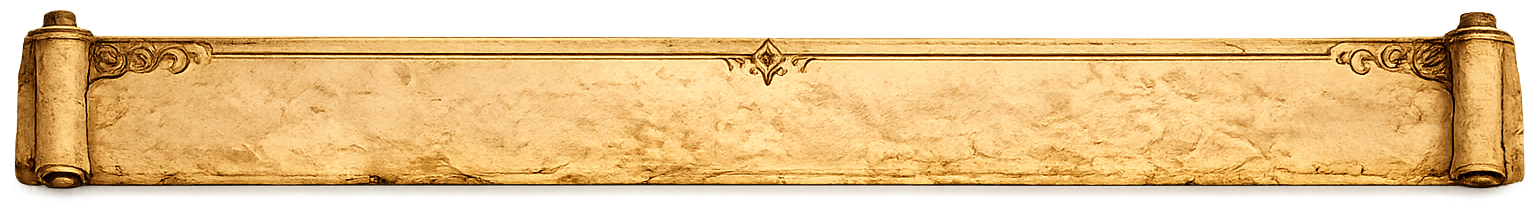
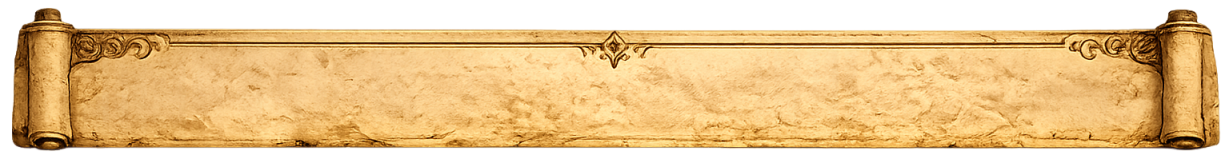
feat: add header, theme toggle, hero and card sections

Changed region(s): [[0.0, 0.8683, 0.9894, 0.9581], [0.2783, 0.1497, 0.371, 0.1796]]

diff --git a/src/components/SectionCards.vue b/src/components/SectionCards.vue
@@ -1,0 +1,131 @@
+<script setup lang="ts">
+</script>
+
+<template>
+  <section class="cards-section">
+
+     <!-- 跨在交界處的捲軸 bar -->
+    <div class="divider-bar"></div>
+
+    <div class="cards-container">
+      <!-- 第一欄:最新章節 -->
+      <div class="card">
+        <h2 class="card-title">最新章節</h2>
+        <p class="card-en">LATEST CHAPTER</p>
+        <div class="card-body">
+          <p>（最新章節內容之後放這裡）</p>
+        </div>
+      </div>
+
+      <!-- 第二欄:書庫分類 -->
+      <div class="card">
+        <h2 class="card-title">書庫分類</h2>
+        <p class="card-en">LIBRARY CATEGORIES</p>
+        <div class="card-body">
+          <p>（書庫分類內容之後放這裡）</p>
+        </div>
+      </div>
+
+      <!-- 第三欄:無旗酒館 -->
+      <div class="card">
+        <h2 class="card-title">無旗酒館</h2>
+        <p class="card-en">CROW'S TAVERN</p>
+        <div class="card-body">
+          <p>（論壇討論內容之後放這裡）</p>
+        </div>
+      </div>
+    </div>
+  </section>
+</template>
+
+<style scoped>
+.cards-section {
+  padding: 80px 50px;
+  background-color: transparent;
+}
+
+.divider-bar {
+  width: 100%;
+  max-width: 1600px;
+  height: 90px;
+  margin: 0 auto;
+  /* 往上拉,讓 bar 騎在英雄區和主區塊的交界線上 */
+  margin-top: -70px;
+  margin-bottom: 20px;
+  background-image: url('@/assets/images/scroll-bar.png');
+  background-size: contain;
+  background-repeat: no-repeat;
+  background-position: center;
+  position: relative;
+  z-index: 5;
+}
+.cards-container {
+  max-width: 1600px;
+  margin:  0 auto;
+  display: grid;
+  grid-template-columns: 4fr 3fr 2fr;
+  gap: 32px;
+}
+
+.card {
+  background-size: 100% 100%;
+  background-repeat: no-repeat;
+  background-position: center;
+  min-height: 420px;
+  padding: 70px 40px 50px;
+}
+
+/* 第一、三欄用 card-bg */
+.card:nth-child(1),
+.card:nth-child(3) {
+  background-image: url('@/assets/images/card-bg.png');
+}
+
+/* 第二欄用 card-bg1 */
+.card:nth-child(2) {
+  background-image: url('@/assets/images/card-bg1.png');
+}
+
+.card-title {
+  font-family: var(--font-title);
+  font-size: 28px;
+  font-weight: 900;
+  color: var(--gold);
+  margin-bottom: 4px;
+}
+
+.card-en {
+  font-size: 12px;
+  letter-spacing: 3px;
+  color: var(--text-main);
+  opacity: 0.5;
+  margin-bottom: 24px;
+}
+
+.card-body {
+  color: var(--text-main);
+}
+
+/* === 平板:兩欄 === */
+@media (max-width: 1024px) {
+  .cards-container {
+    grid-template-columns: 1fr 1fr;
+  }
+}
+
+/* === 手機:單欄 === */
+@media (max-width: 768px) {
+  .cards-section {
+    padding: 50px 24px;
+  }
+
+  .cards-container {
+    grid-template-columns: 1fr;
+    gap: 24px;
+  }
+
+  .card {
+    min-height: auto;
+  }
+}
+</style>

diff --git a/src/assets/theme.css b/src/assets/theme.css
@@ -46,10 +46,19 @@
 
 body {
   font-family: var(--font-body);
-  background-color: var(--bg-dark);
   color: var(--text-main);
   line-height: 1.6;
-  
+  background-color: var(--bg-dark);
+  background-image: url('./images/bg-texture-dark.png');
+  background-size: cover;
+  background-position: center;
+  background-attachment: fixed;
+  background-repeat: no-repeat;
+  transition: background-color 0.4s ease, color 0.4s ease;
+}
+
+[data-theme='light'] body {
+  background-image: url('./images/bg-texture-light.png');
 }
 
 ::view-transition-old(root),

diff --git a/src/App.vue b/src/App.vue
@@ -1,6 +1,7 @@
 <script setup lang="ts">
 import TheHeader from './components/TheHeader.vue'
 import TheHero from './components/TheHero.vue'
+import SectionCards from './components/SectionCards.vue'
 </script>
 
 <template>
@@ -11,6 +12,7 @@ import TheHero from './components/TheHero.vue'
       </div>
       <TheHero />
     </div>
+      <SectionCards />
   </div>
 </template>
 